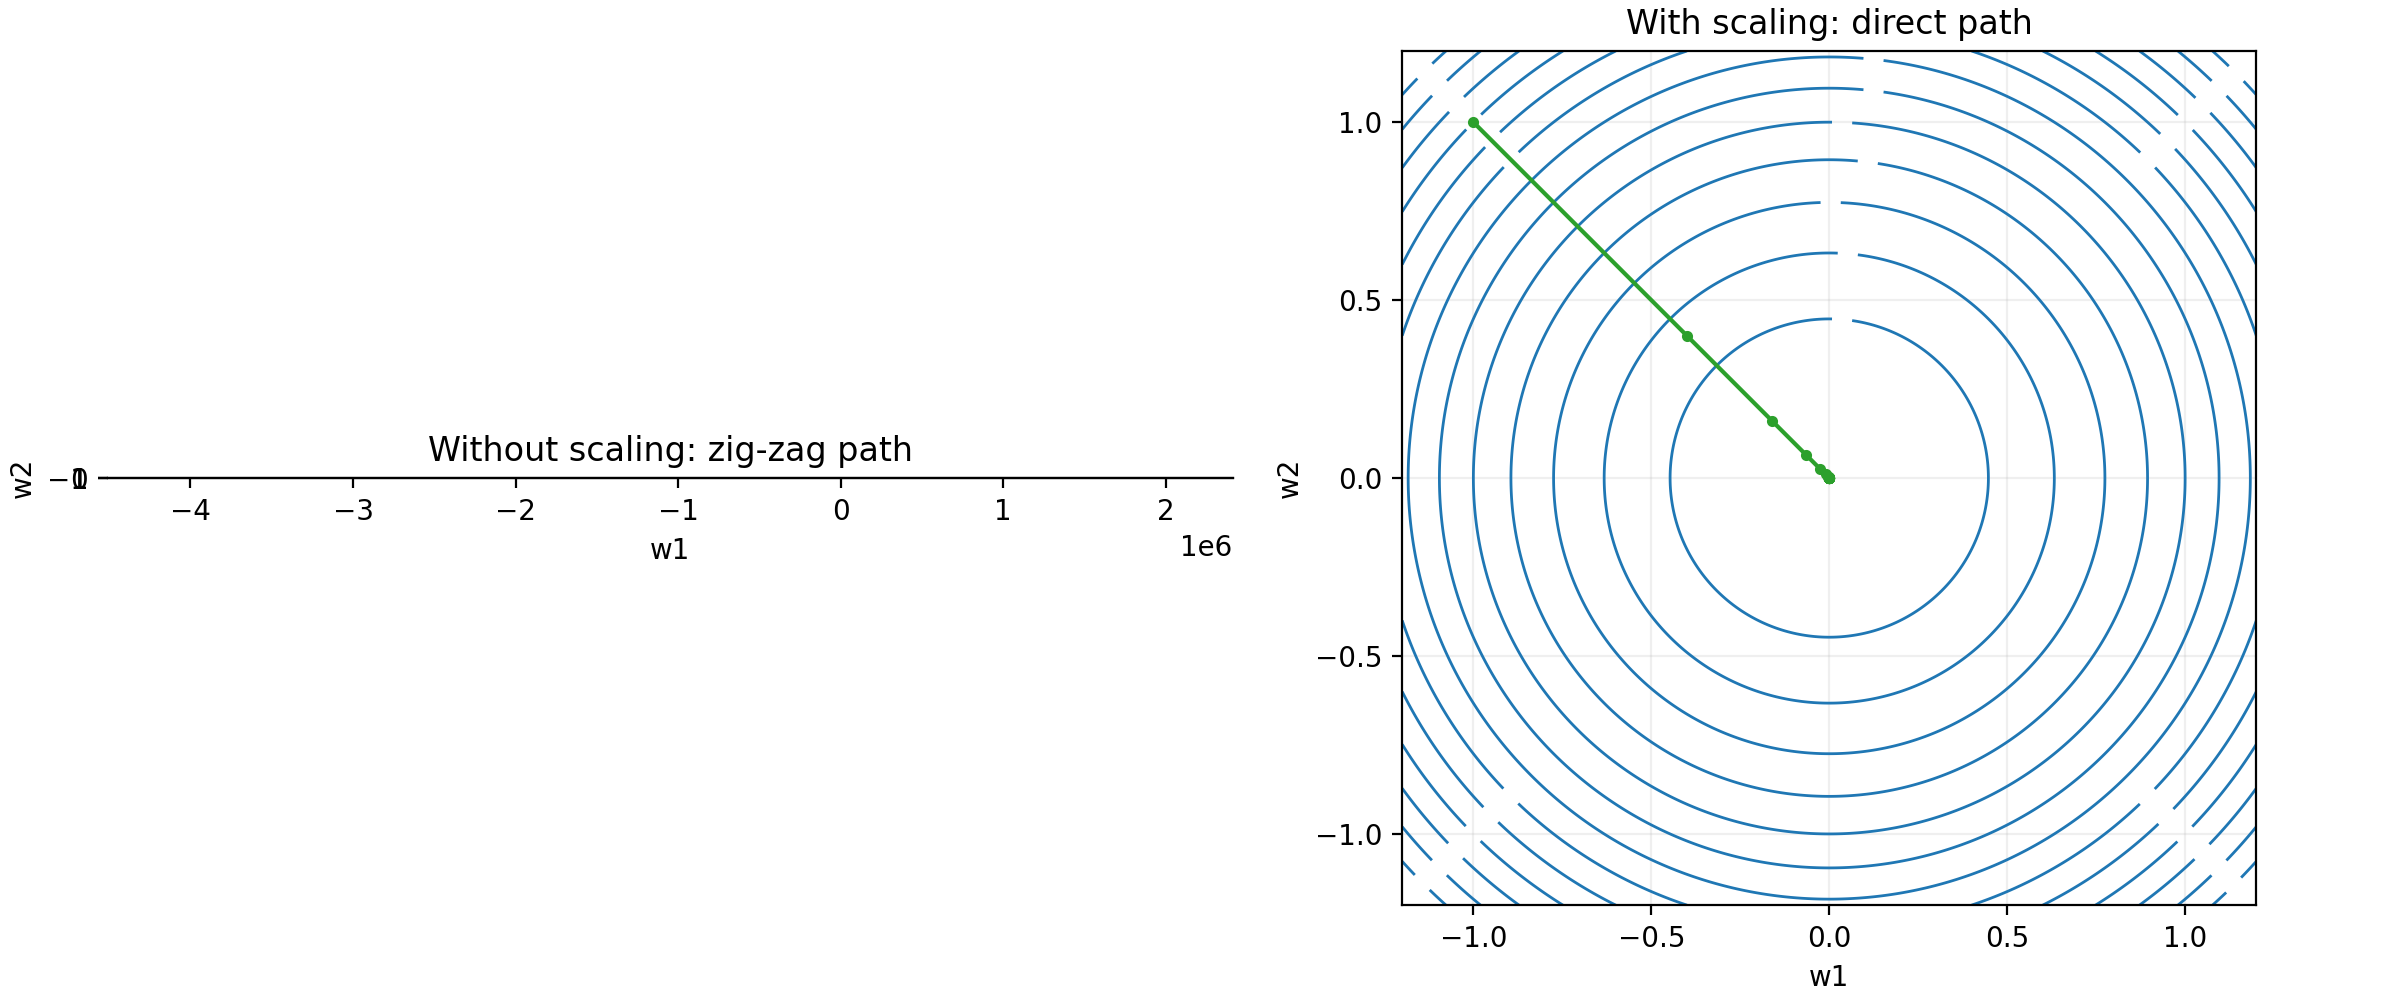
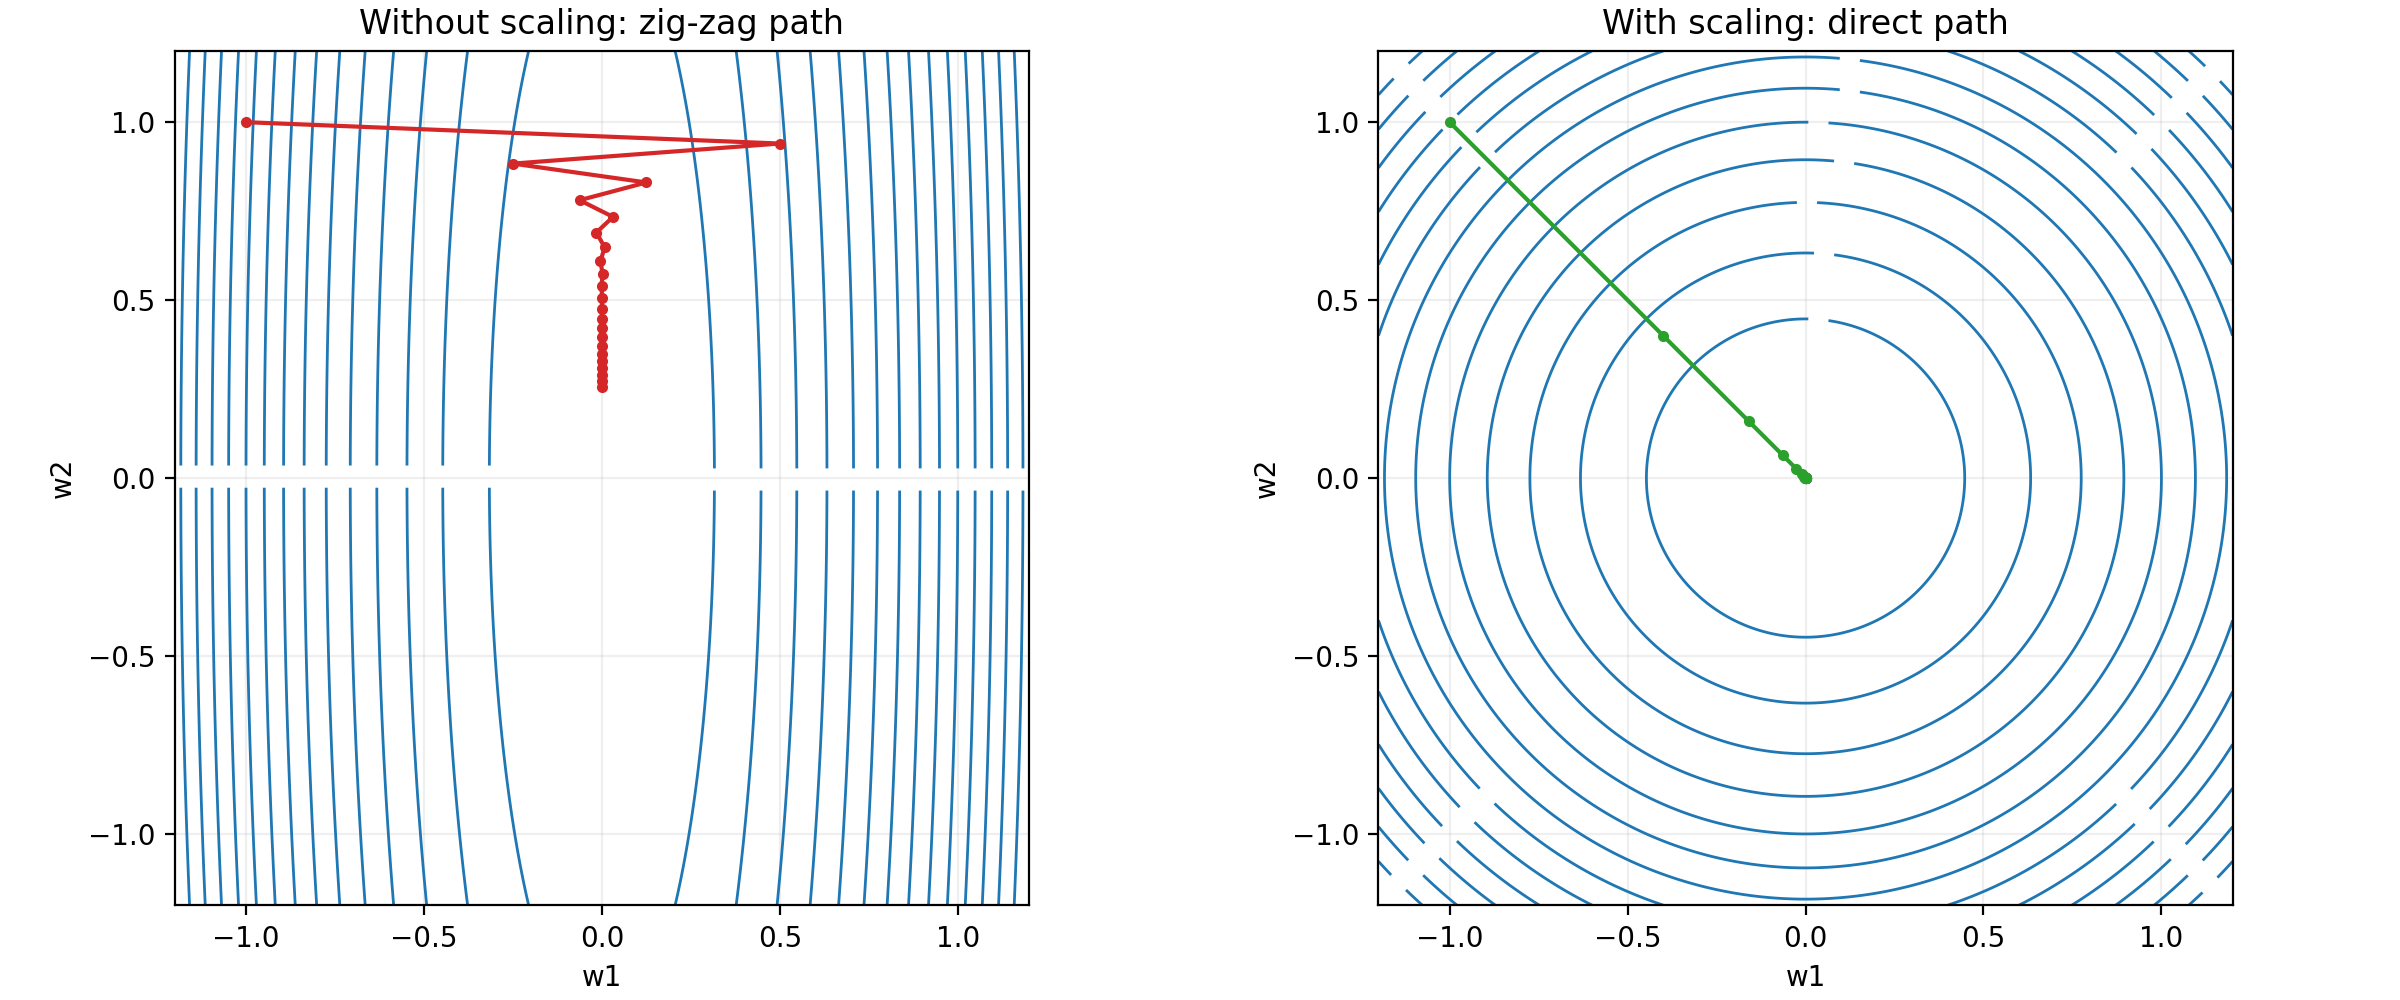
feat(notes): add Lecture 6 — Feature Scaling Part 2 with visuals and clarifications Added detailed notes for divide-by-max, mean normalization, and z-score normalization Created scripts to generate figures: feature scaling methods and visual intuition Embedded generated images and improved alt text 

diff --git a/Module 1/Week 2/scripts/generate_feature_scaling_part2.py b/Module 1/Week 2/scripts/generate_feature_scaling_part2.py
@@ -1,0 +1,81 @@
+from __future__ import annotations
+
+from pathlib import Path
+
+import matplotlib.pyplot as plt
+import numpy as np
+
+
+def make_feature_data(n: int = 80, seed: int = 3) -> tuple[np.ndarray, np.ndarray]:
+    rng = np.random.default_rng(seed)
+    x1 = rng.uniform(300, 2000, size=n)
+    x2 = rng.integers(0, 6, size=n) + rng.normal(0, 0.2, size=n)
+    x2 = np.clip(x2, 0, 5)
+    return x1, x2
+
+
+def plot_raw_scaled(x1_raw, x2_raw, x1_new, x2_new, title_new: str, out_path: Path) -> None:
+    fig, axes = plt.subplots(1, 2, figsize=(12, 4), constrained_layout=True)
+
+    axes[0].scatter(x1_raw, x2_raw, c="#ff7f0e", edgecolor="white", linewidth=0.4, alpha=0.85)
+    axes[0].set_title("Raw features")
+    axes[0].set_xlabel("x1 (size in ft^2)")
+    axes[0].set_ylabel("x2 (# bedrooms)")
+    axes[0].grid(alpha=0.2)
+
+    axes[1].scatter(x1_new, x2_new, c="#ff7f0e", edgecolor="white", linewidth=0.4, alpha=0.85)
+    axes[1].set_title(title_new)
+    axes[1].set_xlabel("x1 (scaled)")
+    axes[1].set_ylabel("x2 (scaled)")
+    axes[1].grid(alpha=0.2)
+
+    out_path.parent.mkdir(parents=True, exist_ok=True)
+    fig.savefig(out_path, dpi=200)
+    plt.close(fig)
+
+
+def method_divide_by_max(x1, x2):
+    x1s = x1 / 2000.0
+    x2s = x2 / 5.0
+    return x1s, x2s
+
+
+def method_mean_normalization(x1, x2):
+    mu1 = x1.mean()
+    mu2 = x2.mean()
+    x1s = (x1 - mu1) / (x1.max() - x1.min())
+    x2s = (x2 - mu2) / (x2.max() - x2.min())
+    return x1s, x2s
+
+
+def method_zscore(x1, x2):
+    mu1, mu2 = x1.mean(), x2.mean()
+    s1, s2 = x1.std(ddof=0), x2.std(ddof=0)
+    x1s = (x1 - mu1) / (s1 + 1e-12)
+    x2s = (x2 - mu2) / (s2 + 1e-12)
+    return x1s, x2s
+
+
+def main() -> None:
+    assets = Path(__file__).resolve().parents[1] / "assets"
+    x1, x2 = make_feature_data()
+
+    # 1) Divide by max
+    x1_div, x2_div = method_divide_by_max(x1, x2)
+    plot_raw_scaled(x1, x2, x1_div, x2_div, "Divide by max (0–1)", assets / "lecture6_divide_by_max.png")
+
+    # 2) Mean normalization
+    x1_mn, x2_mn = method_mean_normalization(x1, x2)
+    plot_raw_scaled(x1, x2, x1_mn, x2_mn, "Mean normalization", assets / "lecture6_mean_normalization.png")
+
+    # 3) Z-score normalization
+    x1_z, x2_z = method_zscore(x1, x2)
+    plot_raw_scaled(x1, x2, x1_z, x2_z, "Z-score normalization", assets / "lecture6_zscore_normalization.png")
+
+    print("Saved Lecture 6 feature scaling images in:", assets)
+
+
+if __name__ == "__main__":
+    main()
+
+

diff --git a/Module 1/Week 2/scripts/generate_visual_intuition.py b/Module 1/Week 2/scripts/generate_visual_intuition.py
@@ -1,0 +1,50 @@
+from __future__ import annotations
+
+from pathlib import Path
+
+import matplotlib.pyplot as plt
+import numpy as np
+
+
+def make_data(n: int = 80, seed: int = 42) -> tuple[np.ndarray, np.ndarray]:
+    rng = np.random.default_rng(seed)
+    x1 = rng.uniform(300, 2000, size=n)
+    x2 = rng.integers(0, 6, size=n) + rng.normal(0, 0.2, size=n)
+    x2 = np.clip(x2, 0, 5)
+    return x1, x2
+
+
+def zscore(x: np.ndarray) -> np.ndarray:
+    return (x - x.mean()) / (x.std(ddof=0) + 1e-12)
+
+
+def main() -> None:
+    x1, x2 = make_data()
+    x1z, x2z = zscore(x1), zscore(x2)
+
+    fig, (ax1, ax2) = plt.subplots(1, 2, figsize=(12, 4), constrained_layout=True)
+
+    ax1.scatter(x1, x2, c="#ff7f0e", edgecolor="white", linewidth=0.5, alpha=0.85)
+    ax1.set_title("Before scaling (stretched)")
+    ax1.set_xlabel("x1 (size in ft^2)")
+    ax1.set_ylabel("x2 (# bedrooms)")
+    ax1.grid(alpha=0.2)
+
+    ax2.scatter(x1z, x2z, c="#2ca02c", edgecolor="white", linewidth=0.5, alpha=0.85)
+    ax2.set_title("After scaling (compact, centered)")
+    ax2.set_xlabel("x1 (scaled)")
+    ax2.set_ylabel("x2 (scaled)")
+    ax2.grid(alpha=0.2)
+
+    assets = Path(__file__).resolve().parents[1] / "assets"
+    assets.mkdir(parents=True, exist_ok=True)
+    out = assets / "lecture6_visual_intuition.png"
+    fig.savefig(out, dpi=200)
+    plt.close(fig)
+    print(f"Saved: {out}")
+
+
+if __name__ == "__main__":
+    main()
+
+

diff --git a/Module 1/Week 2/scripts/generate_gd_paths_scaling.py b/Module 1/Week 2/scripts/generate_gd_paths_scaling.py
@@ -18,6 +18,9 @@ def contours(ax, a: float, b: float, title: str) -> None:
     ax.set_ylabel("w2")
     ax.set_aspect("equal", adjustable="box")
     ax.grid(alpha=0.2)
+    # Fix axes so plotting the path won't rescale due to overshoot
+    ax.set_xlim(-1.2, 1.2)
+    ax.set_ylim(-1.2, 1.2)
 
 
 def gd_path(a: float, b: float, alpha: float, steps: int = 25, start=(-1.0, 1.0)) -> tuple[np.ndarray, np.ndarray]:
@@ -39,7 +42,8 @@ def build_figure() -> Path:
 
     # Without scaling: elongated contours cause zig-zag
     contours(ax1, a=25.0, b=1.0, title="Without scaling: zig‑zag path")
-    p1x, p1y = gd_path(a=25.0, b=1.0, alpha=0.06, steps=22, start=(-1.0, 1.0))
+    # Choose alpha to cause stable oscillation along steep axis: 0.5/a < alpha < 1/a
+    p1x, p1y = gd_path(a=25.0, b=1.0, alpha=0.03, steps=22, start=(-1.0, 1.0))
     ax1.plot(p1x, p1y, marker="o", markersize=3, color="#d62728")
 
     # With scaling: near circular contours → direct path

diff --git a/Module 1/Week 2/readme.md b/Module 1/Week 2/readme.md
@@ -55,6 +55,7 @@
   - [Practice pointers](#practice-pointers)
 
 - [Lecture 5: Feature Scaling Part 1](#lecture-5-feature-scaling-part-1)
+
   - [Introduction](#introduction-2)
   - [Why scaling helps](#why-scaling-helps)
   - [Example: House Price Prediction](#example-house-price-prediction)
@@ -72,6 +73,18 @@
   - [Effect on the Cost Landscape](#effect-on-the-cost-landscape)
   - [Impact on Gradient Descent](#impact-on-gradient-descent)
   - [Key Takeaways](#key-takeaways)
+
+- [Lecture 6: Feature Scaling Part 2](#lecture-6-feature-scaling-part-2)
+  - [Overview](#overview-2)
+  - [Why Scaling?](#why-scaling)
+  - [Methods of Feature Scaling](#methods-of-feature-scaling)
+    - [1. Divide by max](#1-divide-by-max)
+    - [2. Mean normalization](#2-mean-normalization)
+    - [3. Z-score Normalization (Standardization)](#3-z-score-normalization-standardization)
+  - [What ranges are acceptable?](#what-ranges-are-acceptable)
+  - [When to Rescale?](#when-to-rescale)
+  - [Visual Intuition](#visual-intuition)
+  - [Key Takeaways](#key-takeaways-1)
 
 <!-- When you add Lecture 2, Lecture 3, ... follow the same pattern:
 
@@ -261,7 +274,7 @@ f_{\vec{w},b}(\vec{x}) = \vec{w} \cdot \vec{x} + b
 
 ## Lecture 2: Vectorization Part 1
 
-### Overview
+### **Overview**
 
 - Vectorization makes ML code both shorter and much faster by using optimized linear algebra routines (like NumPy) and parallel hardware (CPU SIMD, GPU).
 - Goal: replace explicit per-element operations/loops with math operations on whole vectors/matrices.
@@ -630,12 +643,13 @@ $$
 - `w1 = 0.1`, `w2 = 50`, `b = 50`
 - Predicted price:
 
-\[
+$$
 price = 0.1 \times 2000 + 50 \times 5 + 50
-\]
-\[
+$$
+
+$$
 = 200k + 250k + 50k = 500k
-\]
+$$
 
 ✅ Much more reasonable (matches actual price).
 
@@ -717,3 +731,149 @@ price = 0.1 \times 2000 + 50 \times 5 + 50
 - General rule:
   - Large feature range → small weight.
   - Small feature range → large weight.
+
+---
+
+## Lecture 6: Feature Scaling Part 2
+
+### Overview
+
+- Implement three practical scaling methods and visualize their effects:
+  - **Divide by max** (0–1 scaling)
+  - **Mean normalization** (center around 0, scale by range)
+  - **Z-score normalization** (center and scale by standard deviation)
+
+Run this to generate the figures used below:
+
+```bash
+python scripts/generate_feature_scaling_part2.py
+```
+
+### **Why Scaling?**
+
+- Features may have **different scales** (e.g., income in thousands vs. age in years).
+- **Without scaling**, models may give **higher importance** to **larger‑scaled features**.
+- **Scaling** improves **convergence speed** in **Gradient Descent** and ensures **fair feature contribution**.
+
+### **Methods of Feature Scaling**
+
+#### 1. **Divide by max**
+
+Formula:
+
+```
+x' = x / max(x)
+```
+
+- Scales all values between 0 and 1.
+- Useful when the distribution is not Gaussian and you want bounded values.
+
+- If $x_1 \in [300, 2000]$, use $x_{1,\text{scaled}} = x_1 / 2000$ → $0.15 \le x_{1,\text{scaled}} \le 1$.
+- If $x_2 \in [0, 5]$, use $x_{2,\text{scaled}} = x_2 / 5$ → $0 \le x_{2,\text{scaled}} \le 1$.
+
+![Feature scaling (divide by max)](./assets/lecture6_feature_scaling.png)
+
+![Divide by max](./assets/lecture6_divide_by_max.png)
+
+#### 2. **Mean normalization**
+
+Formula:
+
+```
+x' = (x - μ) / (max - min)
+```
+
+where **μ** = mean of the feature.
+
+##### **Example:**
+
+    μ₁ = 600, range = 2000–300 → x₁' ∈ [-0.18, 0.82]
+    μ₂ = 2.3, range = 5–0 → x₂' ∈ [-0.46, 0.54]
+
+- Compute means $\mu_1, \mu_2$ on the training set.
+- Transform $x_{1,\text{mn}} = (x_1 - \mu_1) / (\max(x_1)-\min(x_1))$.
+- Transform $x_{2,\text{mn}} = (x_2 - \mu_2) / (\max(x_2)-\min(x_2))$.
+- Centers features near 0 with values often in about $[-1, 1]$.
+
+![Mean normalization](./assets/lecture6_mean_norm.png)
+
+![Mean normalization](./assets/lecture6_mean_normalization.png)
+
+#### 3. **Z-score Normalization (Standardization)**
+
+Formula:
+
+```
+x' = (x - μ) / σ
+```
+
+where **σ** = standard deviation.
+
+#### **Example:**
+
+    μ₁ = 600, σ₁ = 450 → x₁' ∈ [-0.67, 3.1]
+    μ₂ = 2.3, σ₂ = 1.4 → x₂' ∈ [-1.6, 1.9]
+
+- Compute means $\mu_j$ and standard deviations $\sigma_j$.
+- Transform $x_{j,\text{z}} = (x_j - \mu_j) / \sigma_j$.
+- Typical values lie within a few standard deviations of 0.
+
+![Z-score normalization](./assets/lecture6_zscore_norm.png)
+
+![Z-score normalization](./assets/lecture6_zscore_normalization.png)
+
+##### What is **standard deviation (σ)**?
+
+- **Standard Deviation (σ)** is a measure of how **spread out** the data is.
+- It tells us how far the values are, on average, from the **mean (μ)**.
+
+**In simple words:**
+
+- If **σ is small**, most values are **close to the mean**.
+- If **σ is large**, the values are **spread out** over a wider range.
+
+**Example:**
+
+```
+Suppose you have house sizes: [1000, 1100, 1200, 1300, 1400]
+Mean (μ) = 1200
+σ = 141 (small → values are close to mean)
+Another set: [500, 1500, 2500, 3500, 4500]
+Mean (μ) = 2500
+σ = 1414 (large → values spread out widely)
+```
+
+![Standard Deviation](./assets/lecture6_standard_deviation_with_sigma.png)
+
+### **What ranges are acceptable?**
+
+- Aim for each feature $x_j$ to land roughly in $[-1, 1]$; $[-3, 3]$ or $[-0.3, 0.3]$ are also fine.
+- If a feature already lies in a compact range (e.g., $[0, 3]$ or $[-2, 0.5]$), scaling is optional.
+
+### **When to Rescale?**
+
+- Rescale if a feature has a **very large** span (e.g., $[-100, 100]$) or is **extremely small** (e.g., $[-0.001, 0.001]$).
+- Rescale domain-specific features like temperature (e.g., 98.6–105°F) to avoid slowing gradient descent.
+- Rule of thumb: aim for values around **[-1, 1]**.
+- In practice, there’s almost never harm in scaling; it often **speeds up convergence** significantly.
+
+![When to rescale](./assets/lecture6_when_to_rescale.png)
+
+### **Visual Intuition**
+
+- **Before scaling**: data points are
+  stretched along one axis.
+- **After scaling**: points become compact
+  and centered → gradient descent works faster.
+
+![Before vs after scaling](./assets/lecture6_visual_intuition.png)
+
+### **Key Takeaways**
+
+- Feature scaling makes training **faster and more stable**.
+- Methods include:
+  - Rescaling (divide by max)
+  - Mean normalization
+  - Z-score normalization
+- Always aim for **similar feature ranges**, ideally around **[-1, 1]**.
+- **When in doubt → Rescale!**
